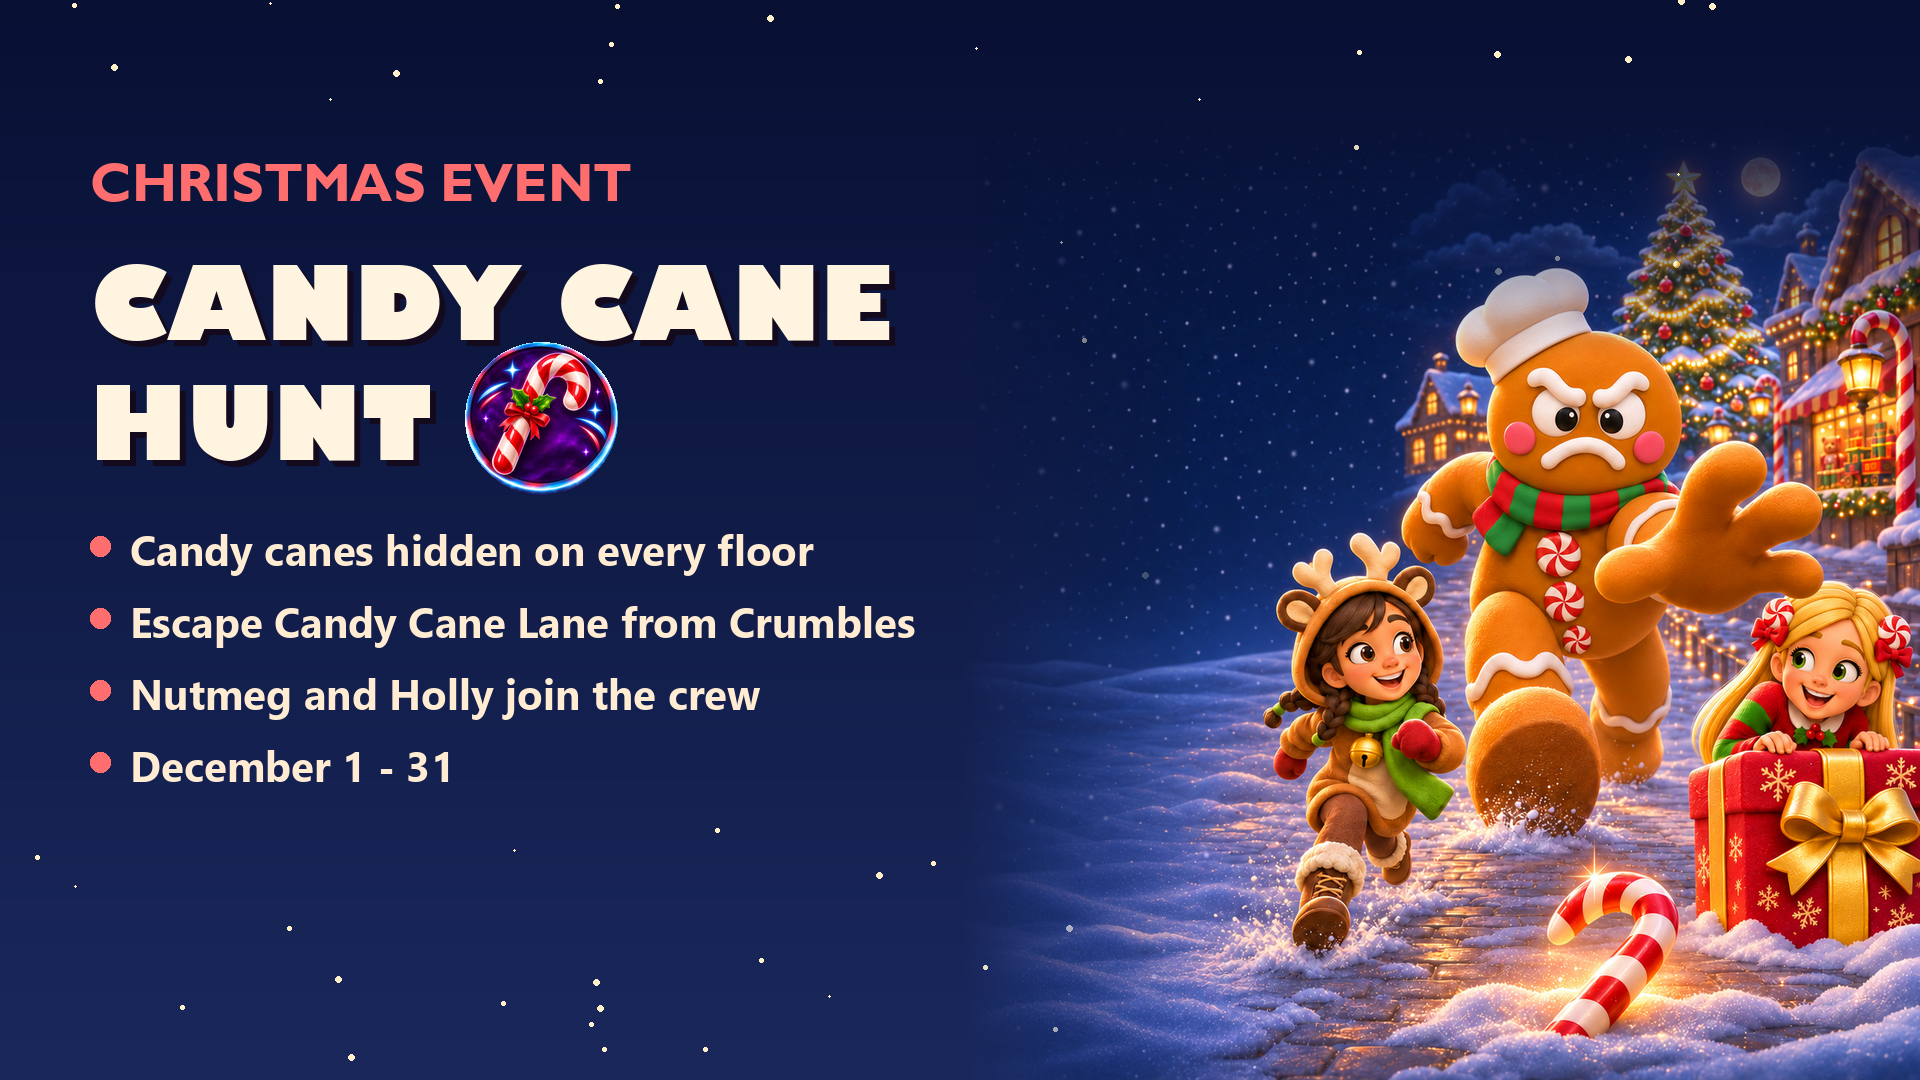
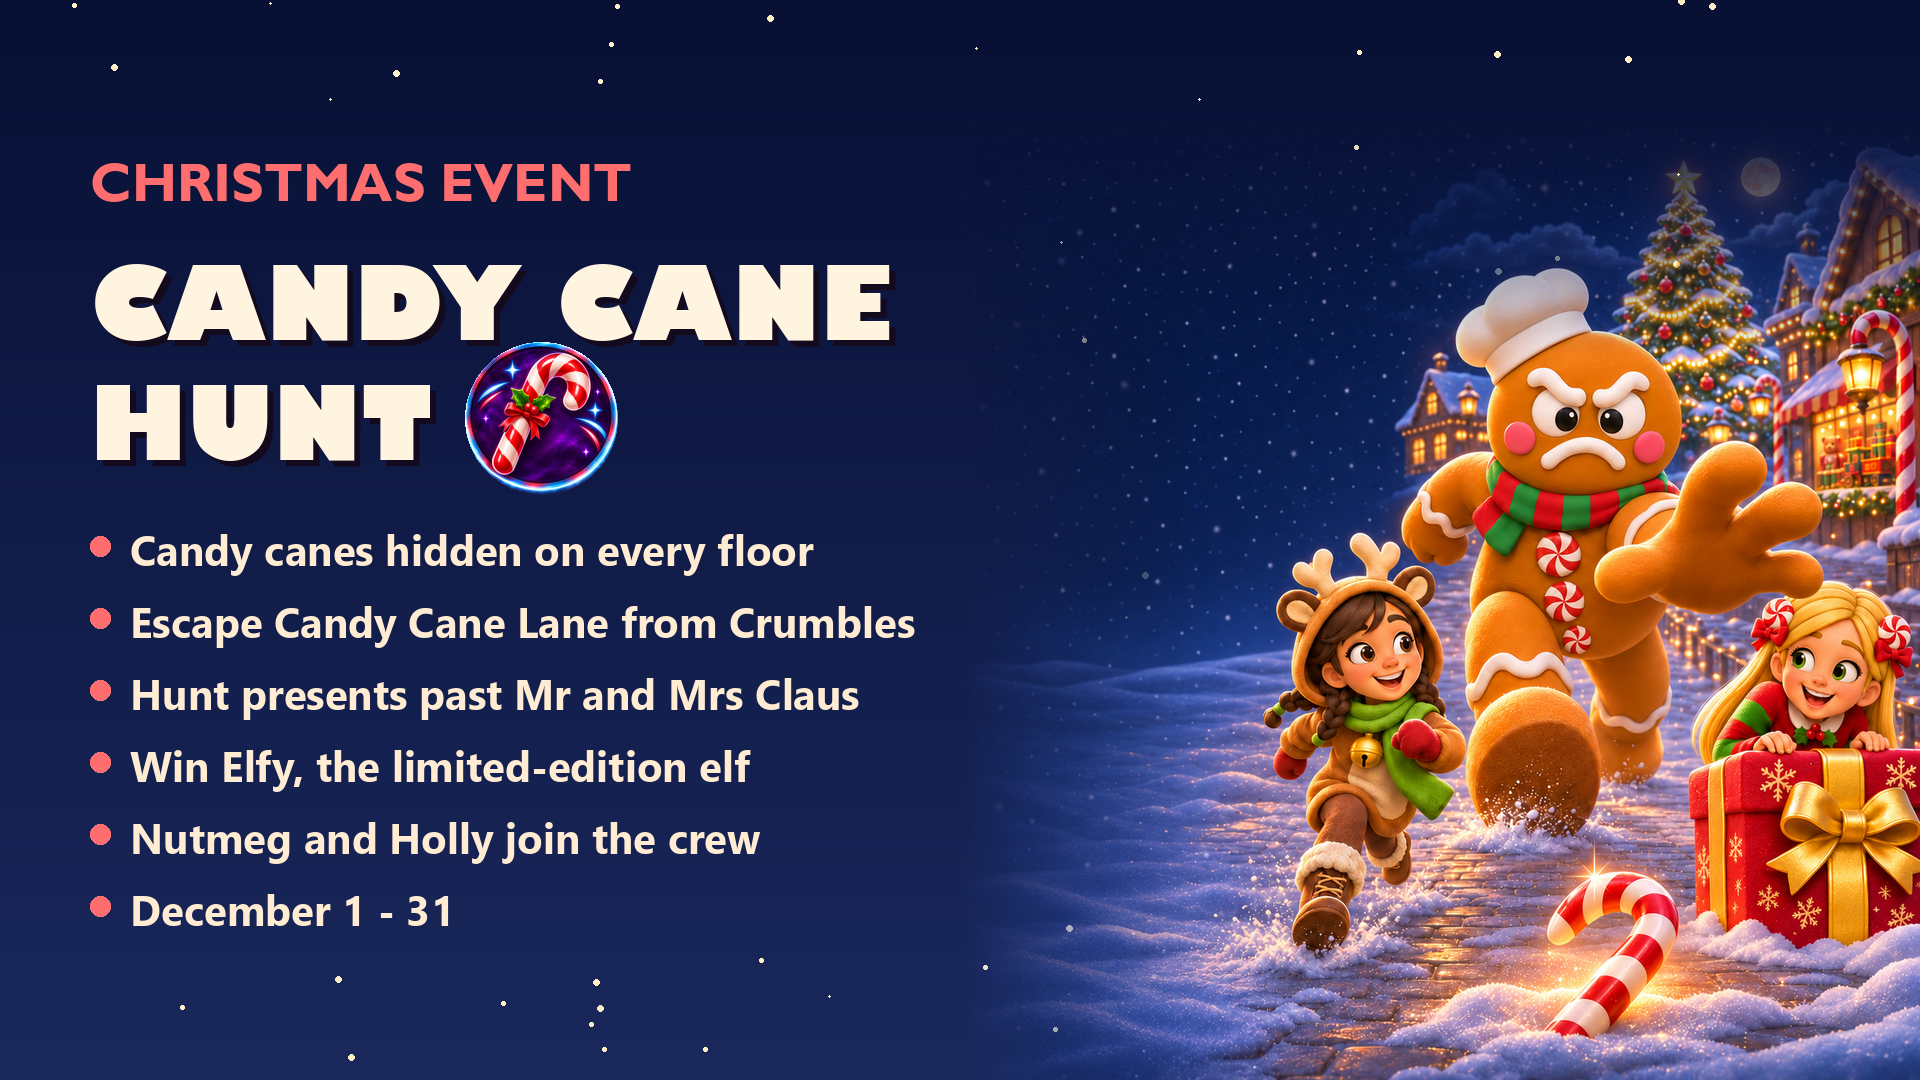
Christmas event page: picture and text name Claus Manor, Mr and Mrs Claus, the Toy Elf decoys and Elfy (and the 13 Christmas skins)

Changed region(s): [[0.0625, 0.6111, 0.4375, 0.7333], [0.0312, 0.7639, 0.4062, 0.7944], [0.0312, 0.825, 0.25, 0.8556]]

diff --git a/tools/make_event_art.py b/tools/make_event_art.py
@@ -49,6 +49,8 @@ EVENTS = {
         title=["CANDY CANE", "HUNT"],
         lines=["Candy canes hidden on every floor",
                "Escape Candy Cane Lane from Crumbles",
+               "Hunt presents past Mr and Mrs Claus",
+               "Win Elfy, the limited-edition elf",
                "Nutmeg and Holly join the crew",
                "December 1 - 31"],
         accent=(255, 110, 110),
@@ -71,7 +73,7 @@ def make(key, out):
     rnd = random.Random(5)
     for _ in range(140):
         x, y, r = rnd.randrange(W), rnd.randrange(H), rnd.choice((1, 2, 2, 3))
-        if x < 1000 and 130 < y < 830:
+        if x < 1000 and 130 < y < 960:
             continue  # (5 Nov) none among the words: a star there reads as a dot in the text
         d.ellipse((x - r, y - r, x + r, y + r), fill=(255, 240, 200))
     # the picture on the right, fading into the sky on its left edge

diff --git a/EVENTS.md b/EVENTS.md
@@ -58,21 +58,27 @@ skins - they must all be in the game on Nov 1.**
 
 Picture: `art/roblox-store/events/event-christmas.png` (1920 x 1080; made by
 `tools/make_event_art.py christmas` from the square picture
-`art/roblox-store/event-christmas.png`, 5 Nov). **This page promises Candy
-Cane Lane, Crumbles, the candy canes, the Christmas Shop, Nutmeg and Holly -
-they must all be in the game on Dec 1.**
+`art/roblox-store/event-christmas.png`, 5 Nov; remade 5 Nov evening with
+Claus Manor and Elfy). **This page promises Candy Cane Lane, Crumbles, Claus
+Manor, Mr and Mrs Claus, the Toy Elf decoys, Elfy, the candy canes, the
+Christmas Shop with 13 Christmas skins, Nutmeg and Holly - they must all be
+in the game on Dec 1.**
 
 - **Title:** Christmas Candy Cane Hunt
-- **Subtitle:** Find candy canes and escape Candy Cane Lane
+- **Subtitle:** Candy canes, Claus Manor and Elfy
 - **Description:**
   Christmas comes to Escape Crew! Six candy canes are hidden on every floor
-  of every building - grab them while you escape. Then sneak through Candy
-  Cane Lane, a snowy toy town open only during the event, where Crumbles the
-  Gingerbread Giant drops crumbs as he stomps around. Step on them and CRUNCH,
-  he comes running! Spend candy canes in the Lobby's Christmas Shop on boosts,
-  a Gift Box Hideout and a Cocoa Thermos, or save up for Nutmeg the reindeer
-  kid. Holly the peppermint trap-setter joins the crew too. Find 50 candy
-  canes for the Candy Cane Collector badge. The event ends January 1, so
+  of every building - grab them while you escape. Sneak through Candy Cane
+  Lane, a snowy toy town where Crumbles the Gingerbread Giant drops crumbs as
+  he stomps around. Step on them and CRUNCH, he comes running! Then creep
+  into Claus Manor, where grumpy Mr and Mrs Claus guard three floors of
+  presents. Open every real present to unlock the door - but some are
+  decoys, and a jingling Toy Elf pops out and calls the Clauses! Open 150
+  presents to win Elfy, the limited-edition elf you can only earn during the
+  event. Spend candy canes in the Lobby's Christmas Shop on boosts and 13
+  Christmas skins, or save up for Nutmeg the reindeer kid. Holly the
+  peppermint trap-setter joins the crew too. Find 50 candy canes for the
+  Candy Cane Collector badge. Both Christmas buildings close January 1, so
   gather your crew!
 - **Starts:** December 1, 12:00 AM Eastern Time (November 30, 9:00 PM
   Pacific) - the moment Thanksgiving ends.
